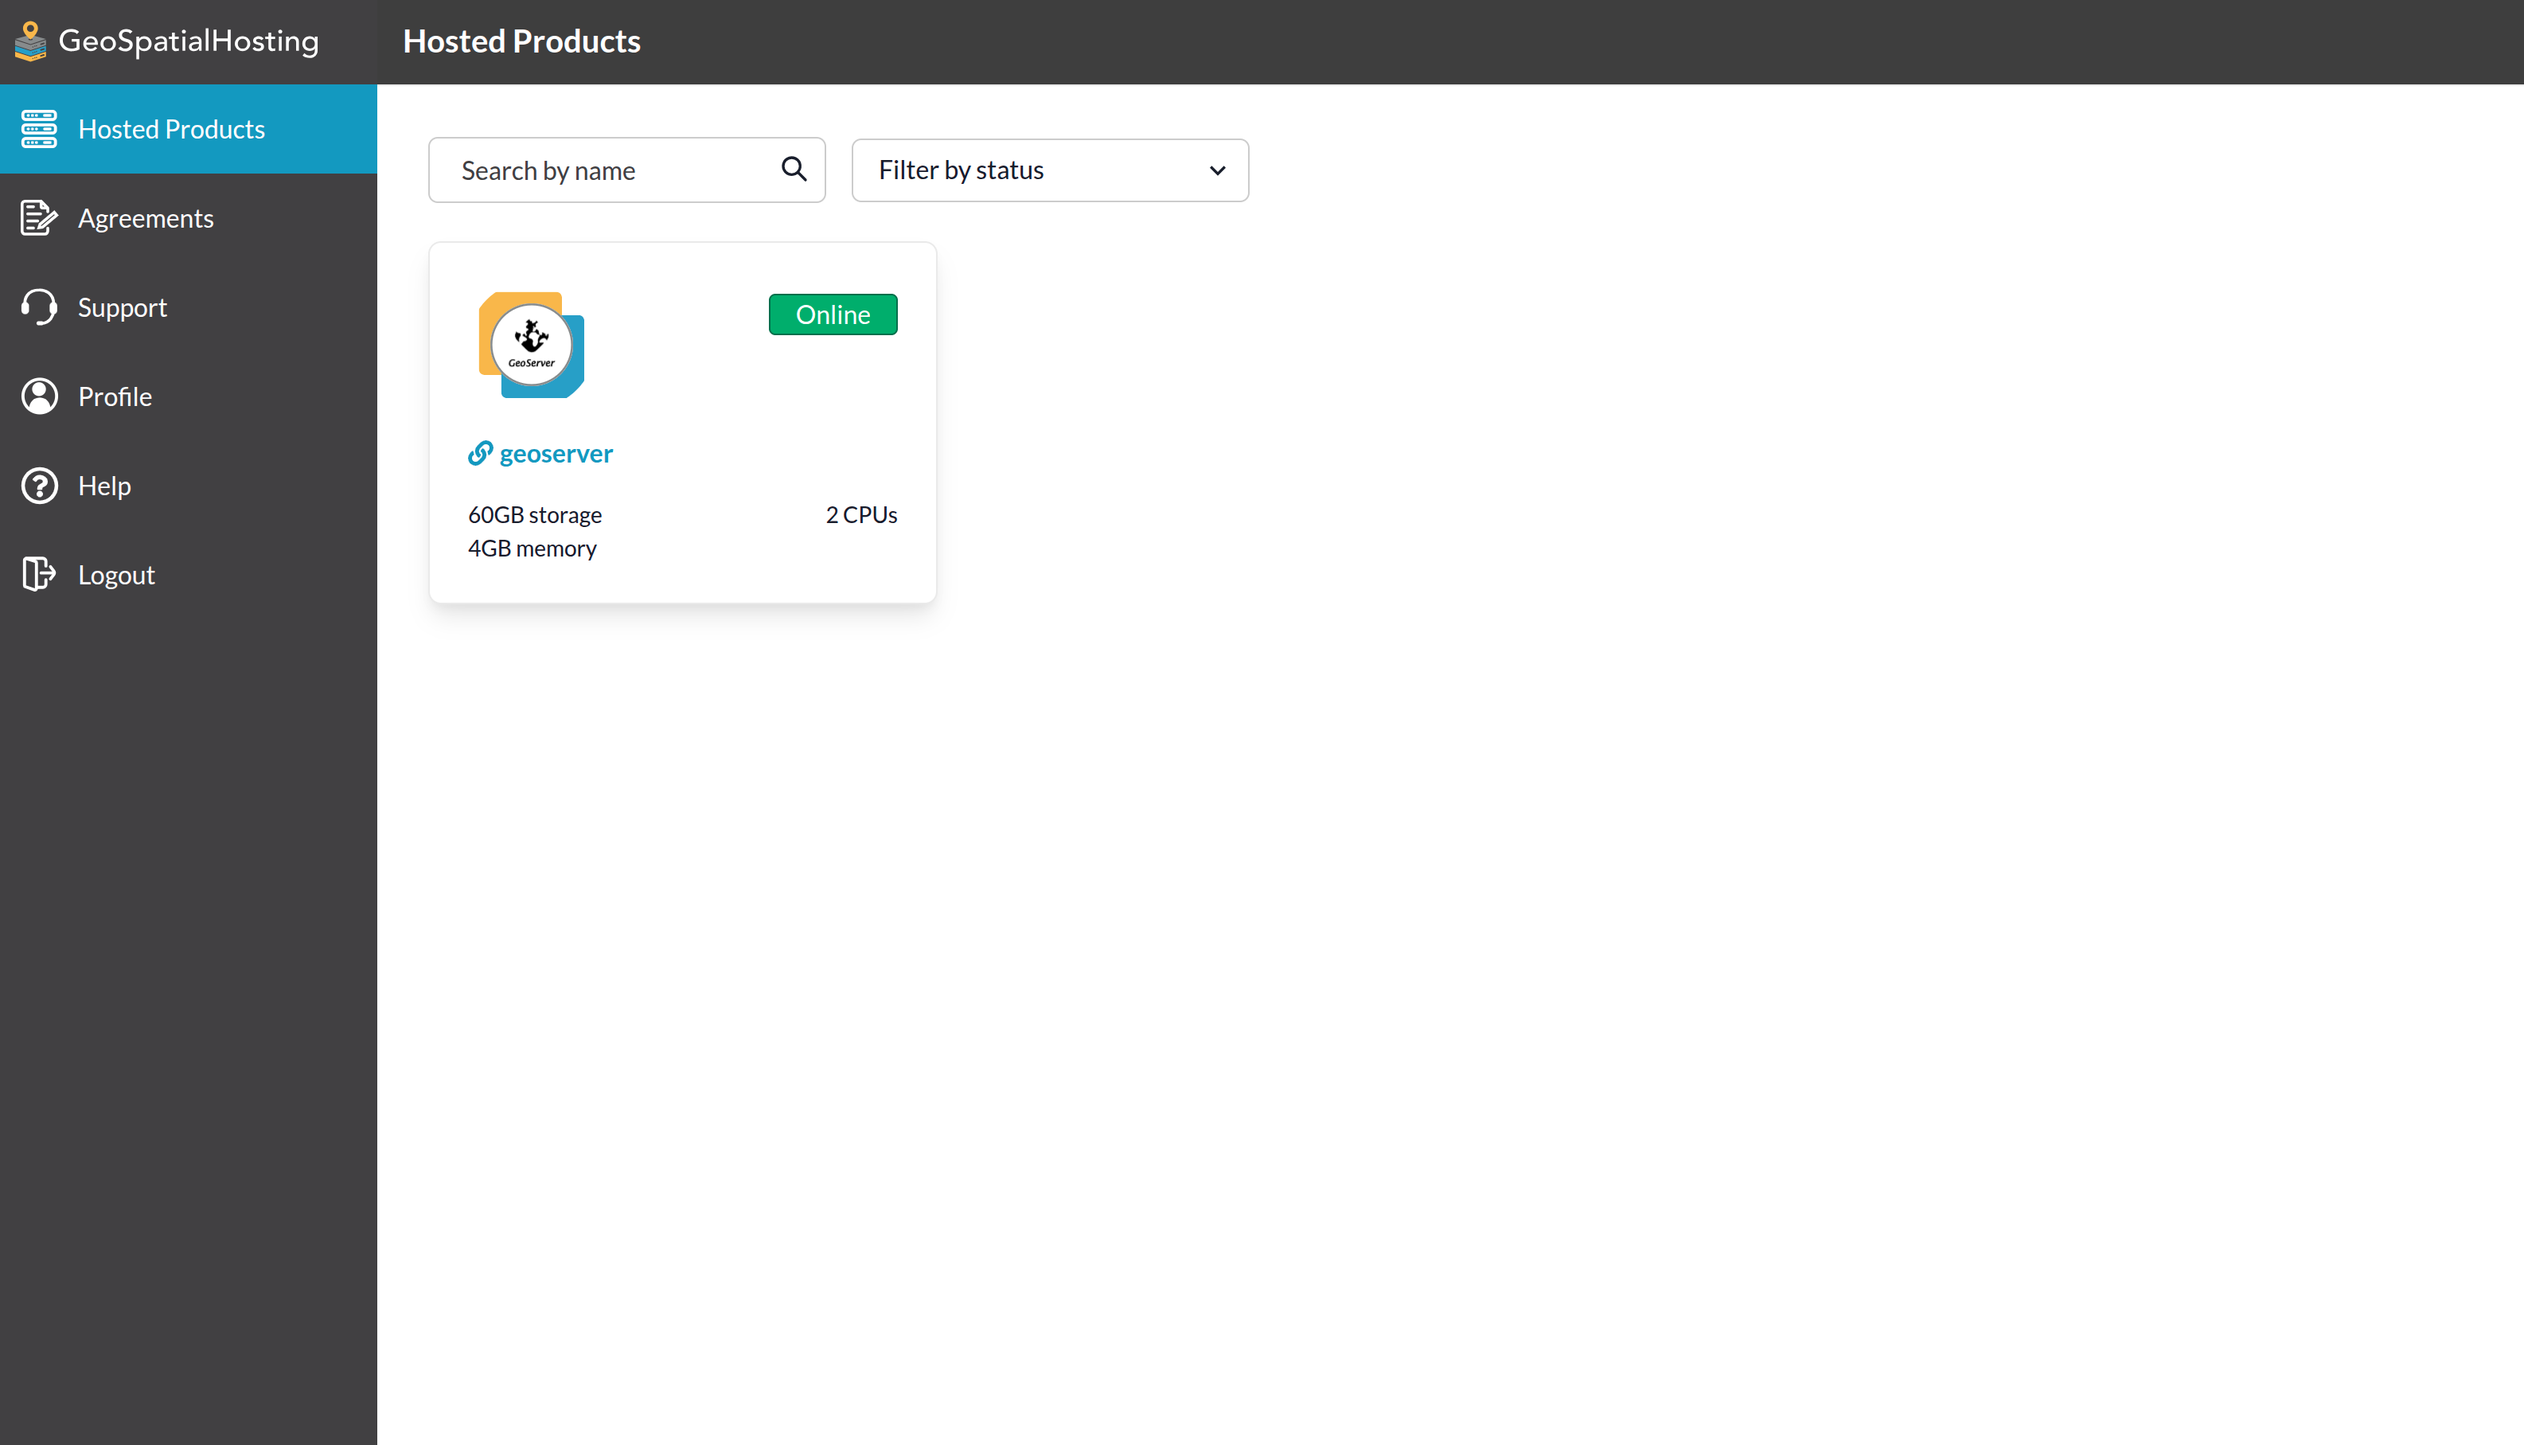
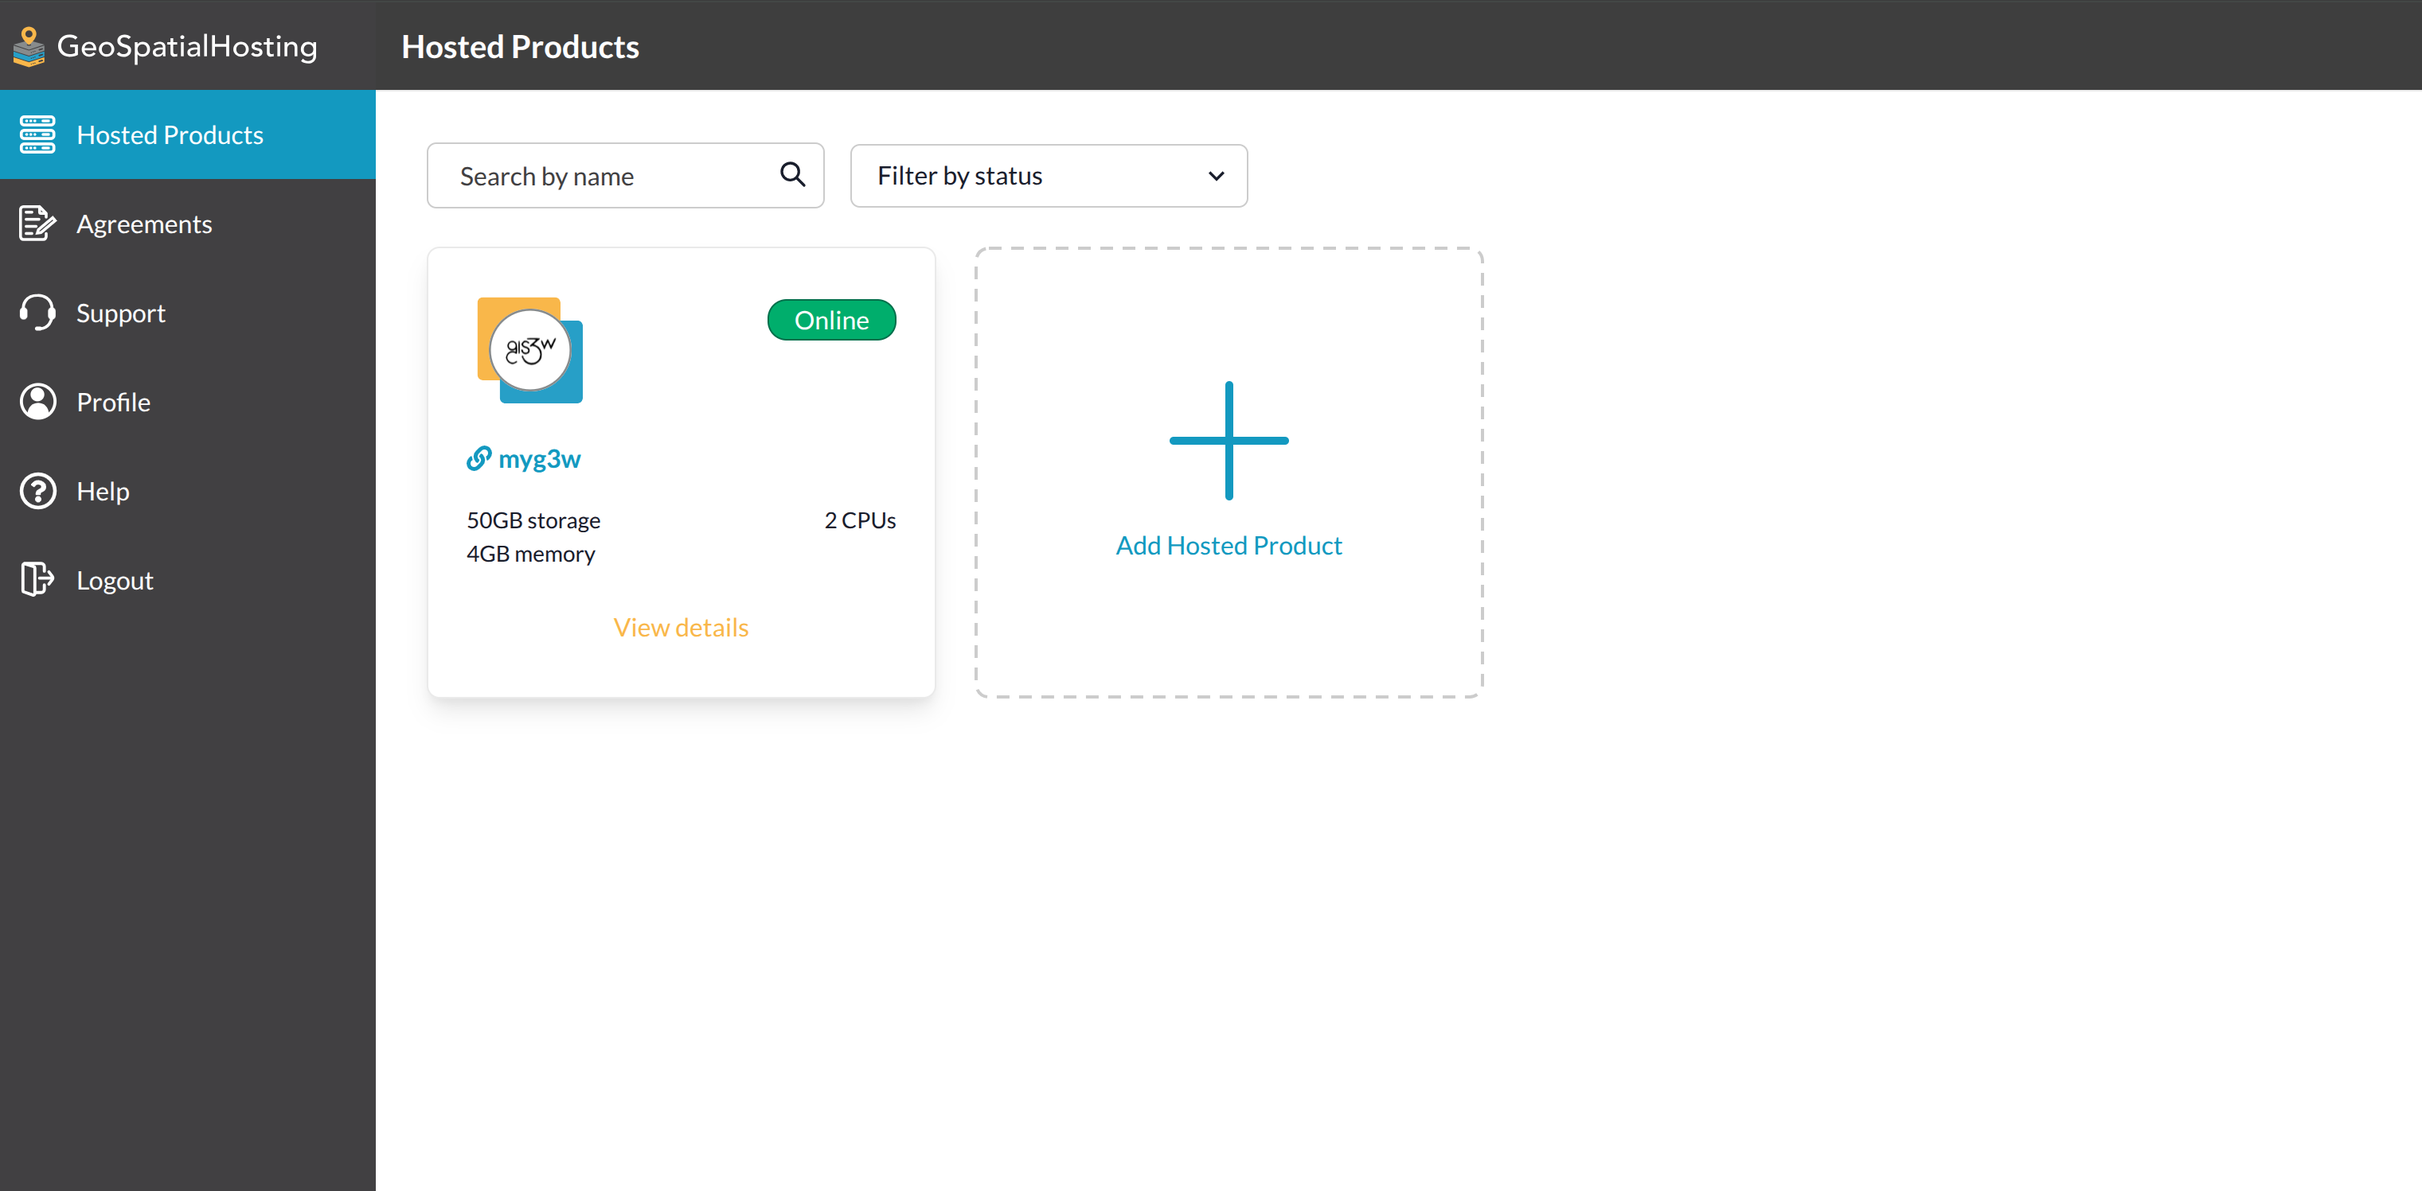
Update: Users Page

diff --git a/docs/src/users/dashboard.md b/docs/src/users/dashboard.md
@@ -77,7 +77,7 @@ All purchased products are displayed as <span class="ui-generic-label">Hosted Pr
 
 <br>
 
-Clicking a <span class="ui-generic-label">Hosted Product Tile</span> opens the <span class="ui-page-label">Product Details</span> page, where you can view:
+Clicking <span class="ui-generic-label">View details</span> opens the <span class="ui-page-label">Product Details</span> page, where you can view:
 
 - Product Information
 - Features & Specifications
